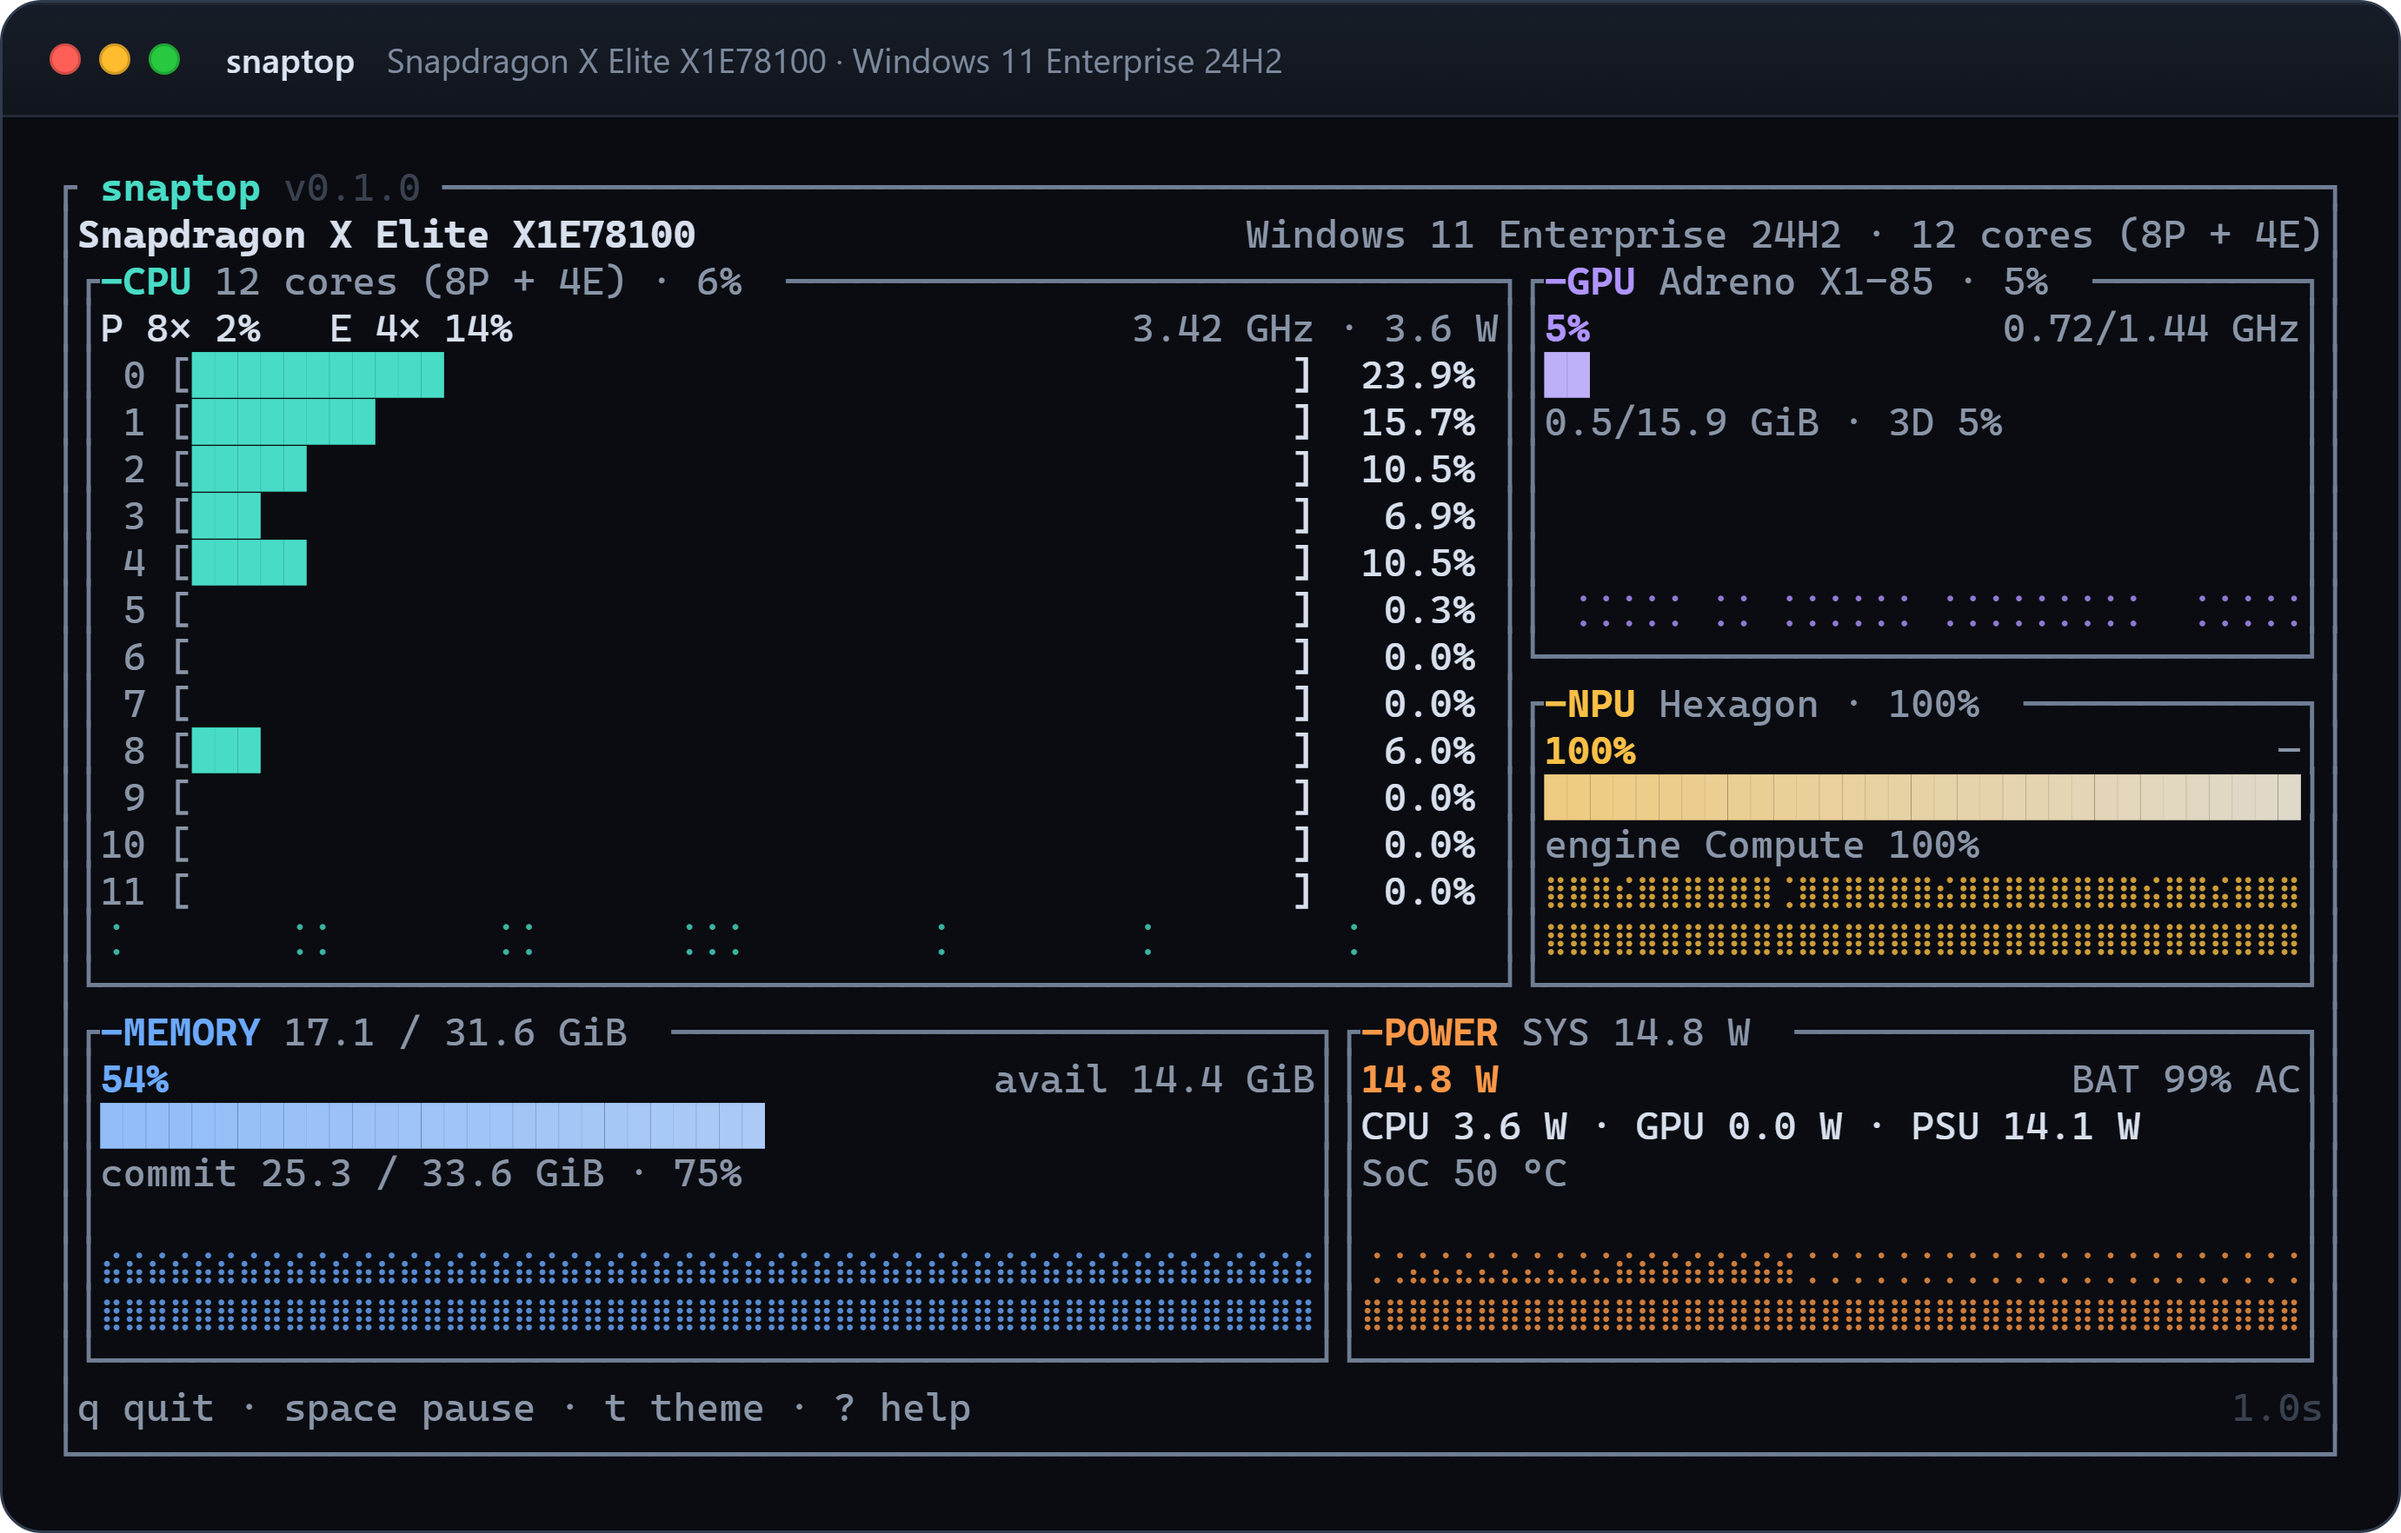
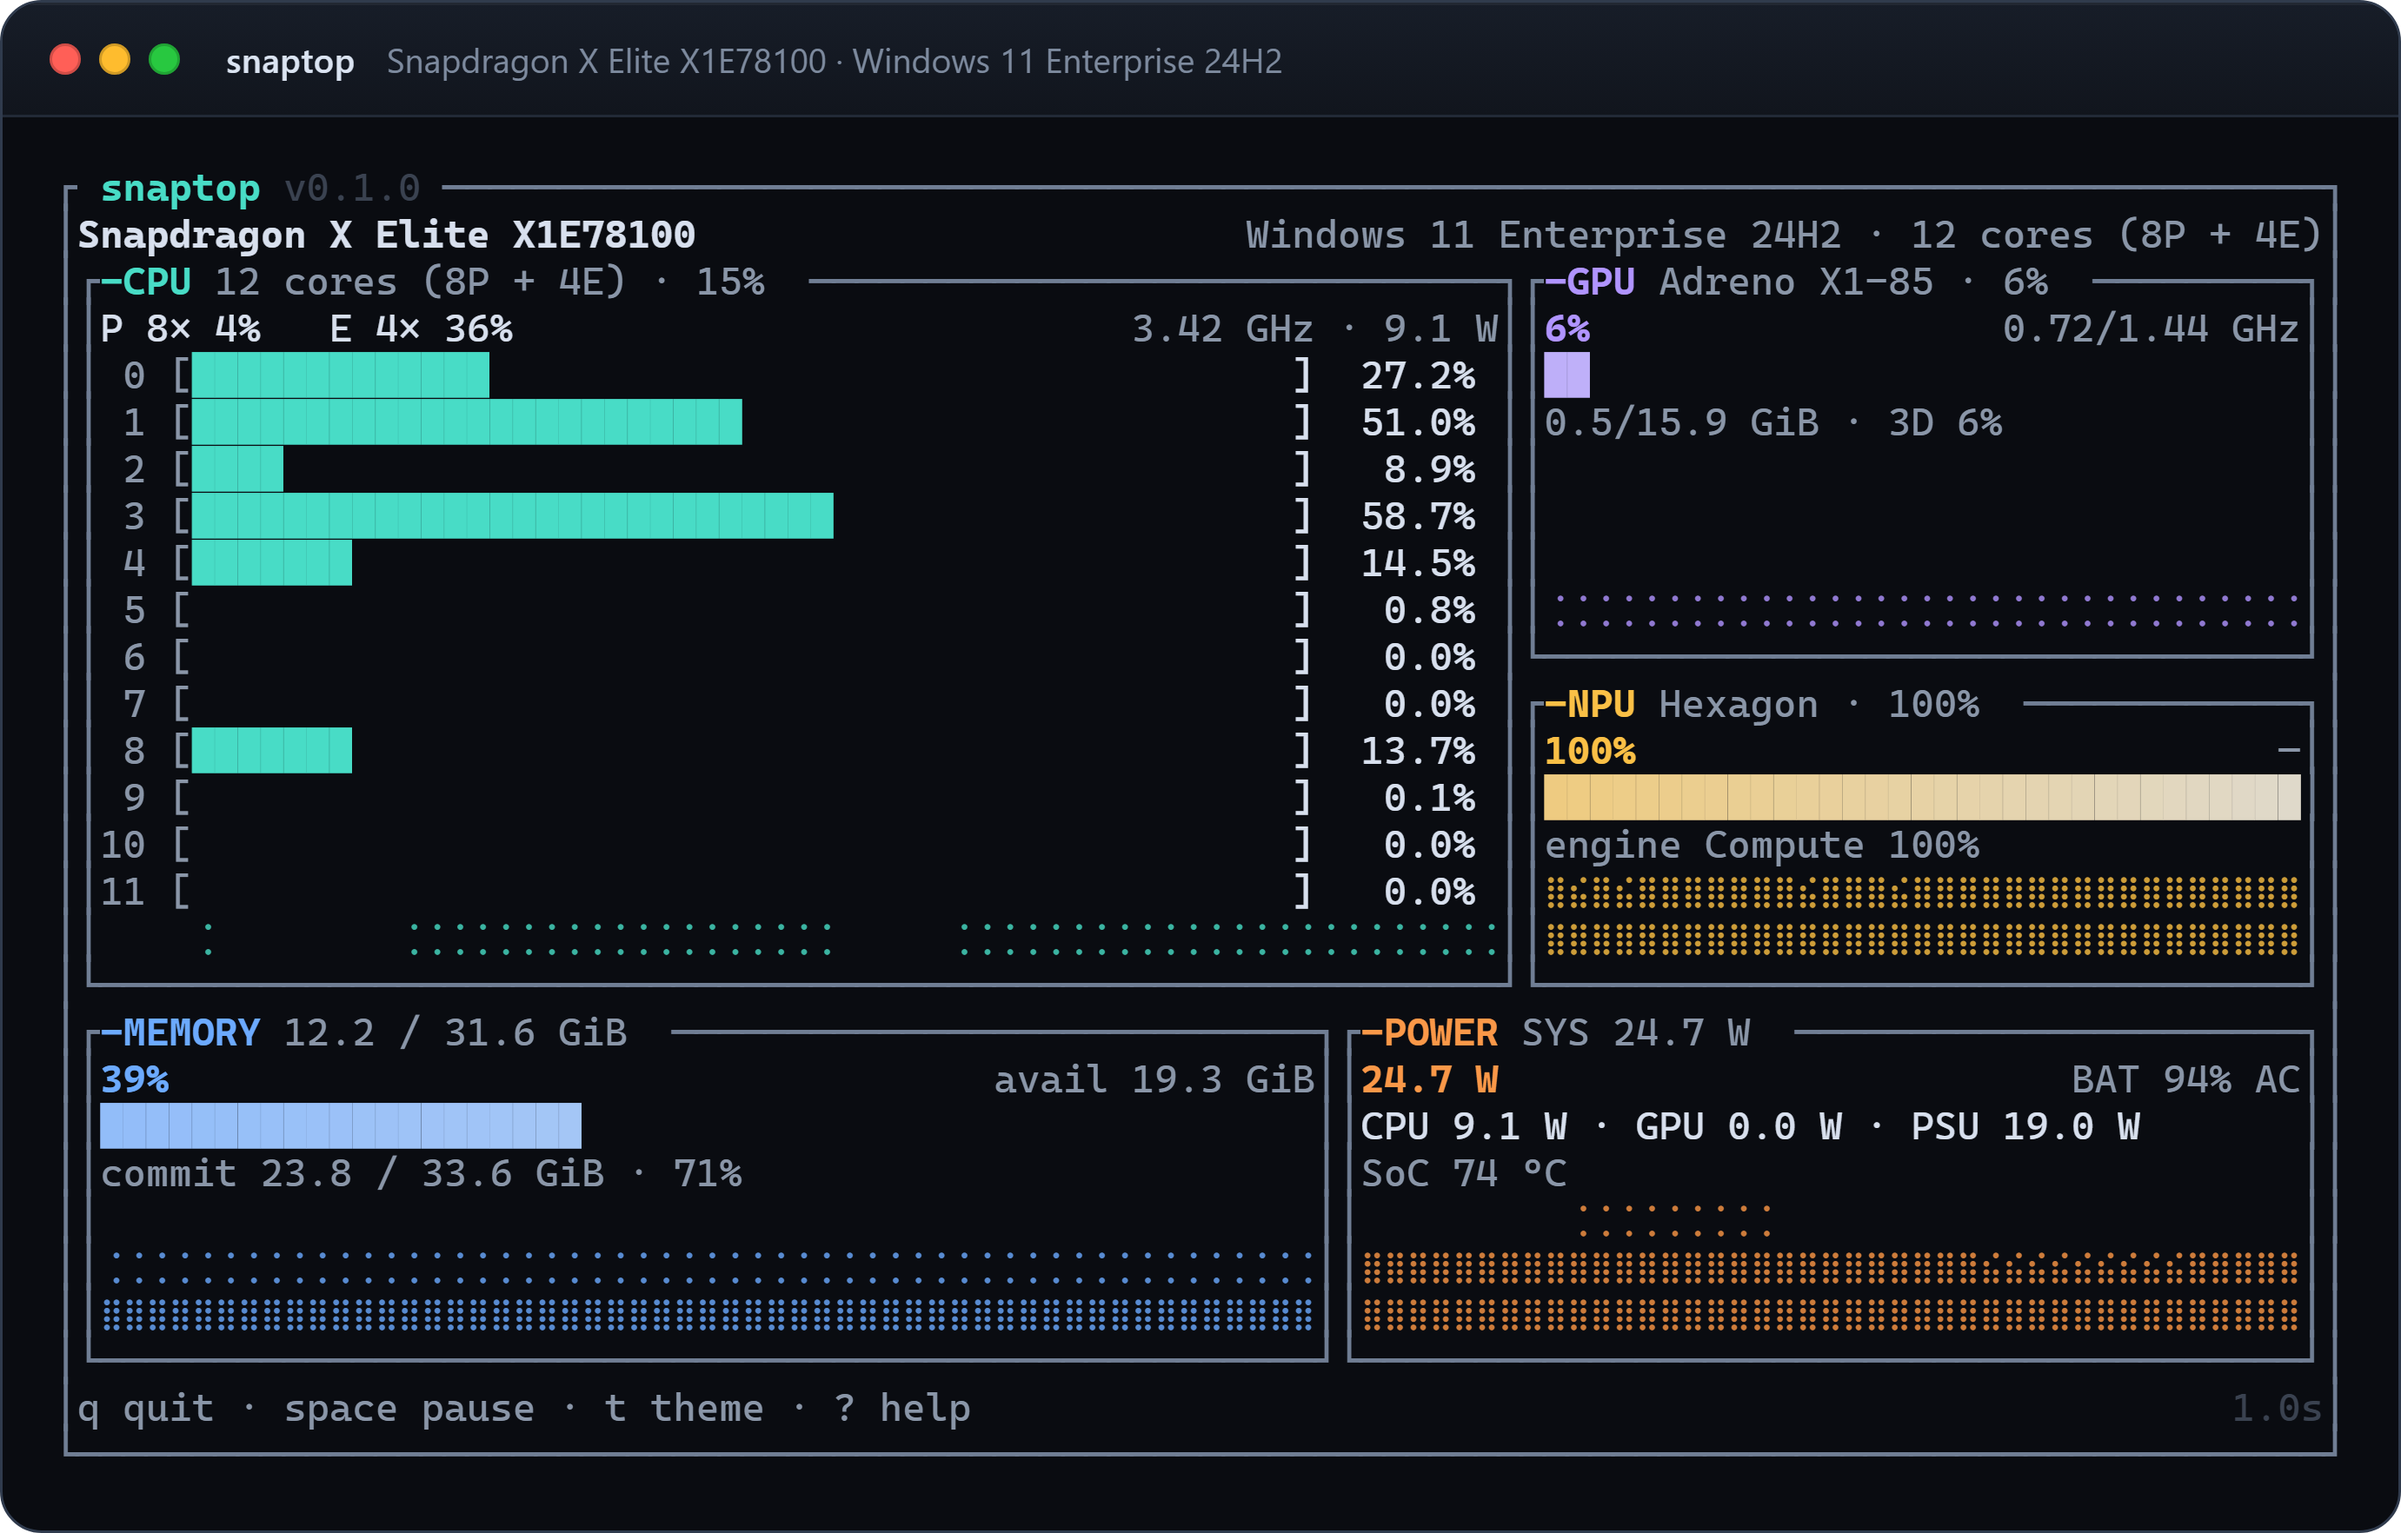
Add an animated NPU demo to the README

diff --git a/src/main.rs b/src/main.rs
@@ -34,6 +34,7 @@ struct Args {
     json: bool,
     preview: bool,
     capture: Option<String>,
+    capture_frames: Option<String>,
     count: Option<u64>,
     theme: Option<usize>,
 }
@@ -48,7 +49,9 @@ fn main() {
         }
     };
 
-    let result = if let Some(path) = args.capture.as_deref() {
+    let result = if let Some(dir) = args.capture_frames.as_deref() {
+        run_capture_frames(&args, dir)
+    } else if let Some(path) = args.capture.as_deref() {
         run_capture(&args, path)
     } else if args.preview {
         run_preview(&args)
@@ -71,6 +74,7 @@ fn parse_args() -> Result<Args, String> {
         json: false,
         preview: false,
         capture: None,
+        capture_frames: None,
         count: None,
         theme: None,
     };
@@ -92,6 +96,10 @@ fn parse_args() -> Result<Args, String> {
             "--capture" => {
                 let value = it.next().ok_or("--capture needs a file")?;
                 args.capture = Some(value);
+            }
+            "--capture-frames" => {
+                let value = it.next().ok_or("--capture-frames needs a directory")?;
+                args.capture_frames = Some(value);
             }
             "-i" | "--interval" => {
                 let value = it.next().ok_or("--interval needs a value")?;
@@ -122,6 +130,8 @@ fn parse_args() -> Result<Args, String> {
                     args.theme = parse_theme(value)?;
                 } else if let Some(value) = other.strip_prefix("--capture=") {
                     args.capture = Some(value.to_string());
+                } else if let Some(value) = other.strip_prefix("--capture-frames=") {
+                    args.capture_frames = Some(value.to_string());
                 } else {
                     return Err(format!("unknown option: {other}"));
                 }
@@ -165,6 +175,8 @@ OPTIONS
     -j, --json              JSON output (NDJSON stream unless --once/--count)
         --preview           render one frame as plain text, then exit
         --capture <FILE>    write a styled HTML frame (for screenshots)
+        --capture-frames <DIR>
+                            write 60 HTML frames for a GIF (10 fps)
         --theme <NAME>      auto (default), aurora, daylight, mono
     -h, --help              show this help
     -V, --version           show the version
@@ -250,6 +262,37 @@ fn run_capture(args: &Args, path: &str) -> Result<(), String> {
     let buffer = render_frame(&app)?;
     write_capture(std::path::Path::new(path), &buffer, &app)?;
     println!("wrote {path}");
+    Ok(())
+}
+
+/// Capture a short real-time sequence of styled frames for an animated README.
+fn run_capture_frames(args: &Args, dir: &str) -> Result<(), String> {
+    const FRAMES: usize = 60;
+    const WARMUP: usize = 100;
+    const FRAME_MS: u64 = 100;
+
+    let mut sampler = Sampler::new()?;
+    let device = sampler.device();
+    thread::sleep(Duration::from_millis(1050));
+
+    let mut app = App::new(device, args.interval_ms, args.theme);
+    // Fill the history first, so the first GIF frame already has a trace.
+    for _ in 0..WARMUP {
+        app.update(sampler.sample()?);
+        thread::sleep(Duration::from_millis(FRAME_MS));
+    }
+
+    let dir = std::path::Path::new(dir);
+    std::fs::create_dir_all(dir).map_err(|e| format!("cannot create {}: {e}", dir.display()))?;
+    for i in 0..FRAMES {
+        app.update(sampler.sample()?);
+        let buffer = render_frame(&app)?;
+        write_capture(&dir.join(format!("frame-{i:04}.html")), &buffer, &app)?;
+        if i + 1 < FRAMES {
+            thread::sleep(Duration::from_millis(FRAME_MS));
+        }
+    }
+    println!("wrote {FRAMES} frames to {}", dir.display());
     Ok(())
 }
 

diff --git a/docs/screenshot.md b/docs/screenshot.md
@@ -1,6 +1,31 @@
-# Regenerating the README screenshot
+# Captures
 
-The capture is a real frame rendered from the live buffer, not a mock-up.
+The README hero is a real 10 fps sequence, not a mock-up; the linked still is
+a 3× frame from the same dashboard.
+
+## Animated demo
+
+The GIF is 60 frames / 6 s. Start a sustained NPU workload if you want the NPU
+active, then:
+
+```powershell
+Remove-Item -Recurse -Force docs\frames -ErrorAction SilentlyContinue
+.\target\release\snaptop.exe --capture-frames docs\frames --theme dark
+.\docs\make-gif.ps1
+Remove-Item -Recurse -Force docs\frames
+```
+
+`--capture-frames` first samples 100 frames (10 s) to fill the history, then
+writes 60 HTML frames at 10 fps. `make-gif.ps1` renders them at 2×, trims the
+transparent margin, and encodes `docs/demo.gif` with ffmpeg and gifsicle:
+1600 px wide, 256-colour palette, transparency, 10 fps, about 1 MB. Chrome,
+ffmpeg and gifsicle are required; the Windows ARM64 gifsicle build is linked
+from [lcdf.org/gifsicle](https://www.lcdf.org/gifsicle/). Put it on `PATH`, or
+pass `-Gifsicle <path>` to the script.
+
+## Still
+
+The still is 3× and is the click-through target for the GIF.
 
 ```powershell
 cargo build --release

diff --git a/README.md b/README.md
@@ -3,9 +3,9 @@
 <p align="center"><strong>snaptop</strong> — a fast, single-binary <code>top</code> for Snapdragon laptops.<br>
 CPU, GPU, NPU and power in one clean view. No SDK, no driver.</p>
 
-<p align="center"><img src="docs/screenshot.png" alt="snaptop dashboard: CPU, GPU, NPU, memory and power" width="1000"></p>
+<p align="center"><a href="docs/screenshot.png"><img src="docs/demo.gif" alt="snaptop dashboard: CPU, GPU, NPU, memory and power" width="1000"></a></p>
 
-<p align="center"><sub>Snapdragon X Elite X1E78100.</sub></p>
+<p align="center"><sub>Snapdragon X Elite X1E78100 · click for the 3× still.</sub></p>
 
 ## Install
 

diff --git a/docs/branding.md b/docs/branding.md
@@ -11,7 +11,8 @@ geometry, not a font glyph, so the mark has no font dependency.
 |---|---|
 | `logo-mark.svg` | Vector source, 512 × 512 |
 | `logo-mark.png` | 1024 px raster, transparent outside the tile |
-| `screenshot.png` | Dashboard capture used in the README |
+| `screenshot.png` | 3× still used as the GIF's click-through |
+| `demo.gif` | Animated README hero, 1600 px, 60 frames at 10 fps |
 
 ## Palette
 
